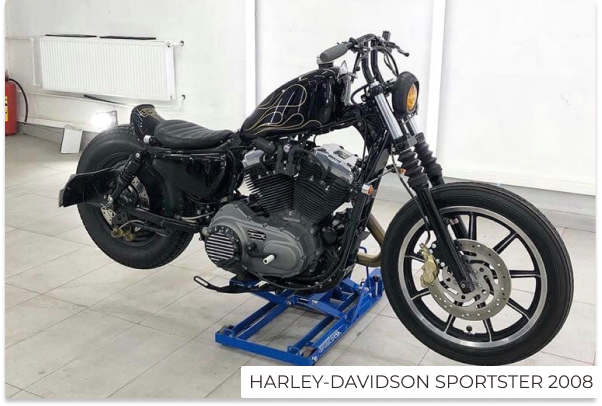
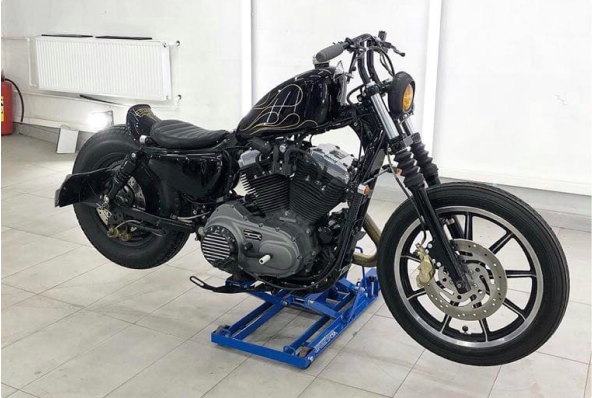
Корректировка Проекты

Changed region(s): [[0.0, 0.0, 1.0, 1.0], [0.1216, 0.7538, 0.152, 0.7839], [0.0608, 0.7236, 0.0912, 0.7538]]

diff --git a/src/projects.html b/src/projects.html
@@ -55,7 +55,7 @@
             <div class="container">
                 <h1 class="section__header">Реализованные проекты</h1>
                 <div class="section__inner">
-                    <p class="section__subheader">Хотим познакомить Вас с последними работами нашего тюнинг-ателье,—
+                    <p class="section__subheader">Хотим познакомить Вас с последними работами нашего тюнинг-ателье,
                         смотрите и вдохновляйтесь!</p>
                     <div class="section__group section__group_right section__text_projects">
                         <div class="section__text section__text_right">
@@ -72,7 +72,10 @@
                                 <li><span class="section-list__marker">—</span> модифицированная рама</li>
                             </ul>
                         </div>
-                        <img class="section__img" src="./assets/projects/HD-SOFTAIL-2019.png" alt="HD-SOFTAIL-2019">
+                        <div class="section__img">
+                            <img src="./assets/projects/HD-SOFTAIL-2019.png" alt="HD-SOFTAIL-2019">
+                            <div class="img__label">HD SOFTAIL 2019</div>
+                        </div>
                     </div>
 
                     <div class="section__group section__group section__text_projects">
@@ -90,7 +93,10 @@
                                     Platinum в 2 слоя</li>
                             </ul>
                         </div>
-                        <img class="section__img" src="./assets/projects/HONDA-STEED-400.png" alt="HONDA-STEED-400">
+                        <div class="section__img">
+                            <img src="./assets/projects/HONDA-STEED-400.png" alt="HONDA-STEED-400">
+                            <div class="img__label">HONDA STEED 400</div>
+                        </div>
                     </div>
 
                     <div class="section__group section__group_right section__text_projects">
@@ -107,8 +113,11 @@
                                 <li><span class="section-list__marker">—</span> изменили форму крыльев</li>
                             </ul>
                         </div>
-                        <img class="section__img" src="./assets/projects/HARLEY-DAVIDSON-SPORTSTER-2008.png"
-                            alt="HARLEY-DAVIDSON-SPORTSTER-2008">
+                        <div class="section__img">
+                            <img src="./assets/projects/HARLEY-DAVIDSON-SPORTSTER-2008.png"
+                                alt="HARLEY-DAVIDSON-SPORTSTER-2008">
+                            <div class="img__label">HARLEY-DAVIDSON SPORTSTER 2008</div>
+                        </div>
                     </div>
 
                     <div class="section__group section__group section__text_projects">
@@ -130,8 +139,10 @@
                                     двигателя</li>
                             </ul>
                         </div>
-                        <img class="section__img" src="./assets/projects/HONDA-CB400SS-2010.png"
-                            alt="HONDA-CB400SS-2010">
+                        <div class="section__img">
+                            <img src="./assets/projects/HONDA-CB400SS-2010.png" alt="HONDA-CB400SS-2010">
+                            <div class="img__label">HONDA CB400SS 2010</div>
+                        </div>
                     </div>
 
                     <div class="section__group section__group_right section__text_projects">
@@ -153,7 +164,10 @@
                                 <li><span class="section-list__marker">—</span> мотоцикл окрашен порошковой краской</li>
                             </ul>
                         </div>
-                        <img class="section__img" src="./assets/projects/HONDA VRX 400.png" alt="HONDA VRX 400">
+                        <div class="section__img">
+                            <img src="./assets/projects/HONDA VRX 400.png" alt="HONDA VRX 400">
+                            <div class="img__label">HONDA VRX 400</div>
+                        </div>
                     </div>
 
                     <div class="section__group section__group section__text_projects">
@@ -179,7 +193,10 @@
                                 <li><span class="section-list__marker">—</span> покрышки шириной 180 и 330 мм</li>
                             </ul>
                         </div>
-                        <img class="section__img" src="./assets/projects/V-ROD-2019.png" alt="V-ROD-2019">
+                        <div class="section__img">
+                            <img src="./assets/projects/V-ROD-2019.png" alt="V-ROD-2019">
+                            <div class="img__label">ПРОЕКТ 2019 ГОДА НА БАЗЕ V- ROD</div>
+                        </div>
                     </div>
                 </div>
             </div>

diff --git a/src/css/layout/_section.scss b/src/css/layout/_section.scss
@@ -61,12 +61,12 @@
     color: $color-text-red;
 }
 
-.section__text_projects .section__text_right  {
+.section__text_projects .section__text_right {
     margin: auto 0;
     padding-left: 90px;
 }
 
-.section__text_projects .section__text_left  {
+.section__text_projects .section__text_left {
     margin: auto 0;
     padding-right: 90px;
 }
@@ -79,8 +79,28 @@
 }
 
 .section__img {
-    display: block;
+    position: relative;
     width: 50%;
+}
+
+.section__img > img {
+    display: block;
+    width: 100%;
+}
+
+.img__label {
+    position: absolute;
+    bottom: 0;
+    right: 0;
+    z-index: 1;
+    padding: 5px;
+    font-size: 1.8rem;
+    line-height: 2.2rem;
+    text-transform: uppercase;
+
+    background: #ffffff;
+    border: none;
+    border-radius: 2px;
 }
 
 .section__list {
@@ -89,6 +109,15 @@
     line-height: 2.5rem;
 }
 
+.section__list > li {
+    position: relative;
+    padding-left: 27px;
+}
+
 .section-list__marker {
+    position: absolute;
+    top: 0;
+    left: 0;
+    z-index: 1;
     color: $color-text-red;
 }
